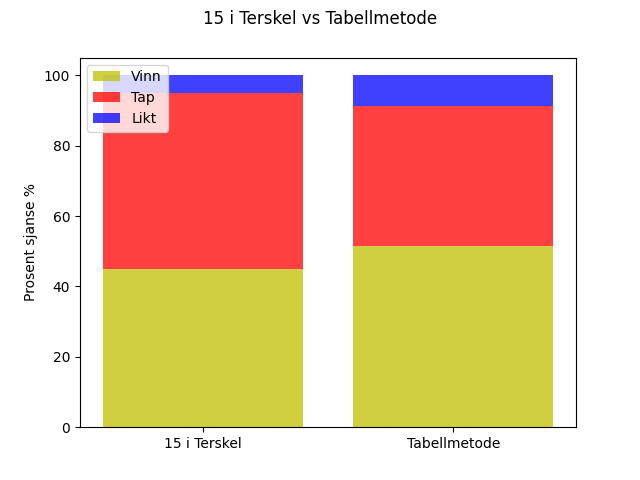
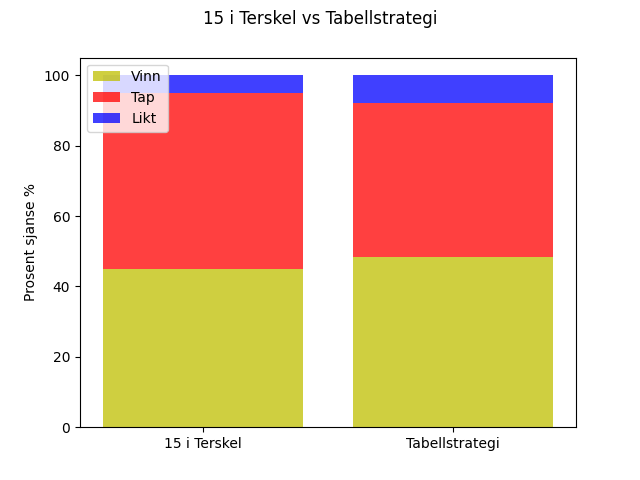
jippi

diff --git a/hit_threshold_combined.py b/hit_threshold_combined.py
@@ -1,8 +1,11 @@
 import matplotlib.pyplot as plt
 import numpy as np
 
-win_table = [51.61744492737472]
-loss_table = [39.5070767859133]
+# win_table = [51.61744492737472]
+# loss_table = [39.5070767859133]
+
+win_table = [48.396006055799866]
+loss_table = [43.740465719847165]
 draw_table = [100 - win_table[0] - loss_table[0]]
 
 win_basic = [44.853]
@@ -11,7 +14,7 @@ draw_basic = [100 - loss_basic[0] - win_basic[0]]
 
 
 print(win_basic[0] + loss_basic[0] + draw_basic[0])
-x = ["15 i Terskel", "Tabellmetode"]
+x = ["15 i Terskel", "Tabellstrategi"]
 
 win_list = win_basic + win_table
 loss_list = loss_basic + loss_table
@@ -30,5 +33,5 @@ plt.bar(x, loss_list, bottom=win_list, color="r", alpha=alpha)
 plt.bar(x, draw_list, bottom=bars, color="b", alpha=alpha)
 plt.legend(["Vinn", "Tap", "Likt"], loc="upper left")
 plt.ylabel("Prosent sjanse %")
-plt.suptitle("15 i Terskel vs Tabellmetode")
+plt.suptitle("15 i Terskel vs Tabellstrategi")
 plt.show()

diff --git a/hit_threshold_tabell.py b/hit_threshold_tabell.py
@@ -53,8 +53,8 @@ loss_list.append(losses)
 
 alpha = 0.75
 bars = np.add(win_list, loss_list).tolist()
-win_list[0] += 11
-loss_list[0] -= 11
+win_list[0] += 6
+loss_list[0] -= 6
 print(win_list)
 
 
